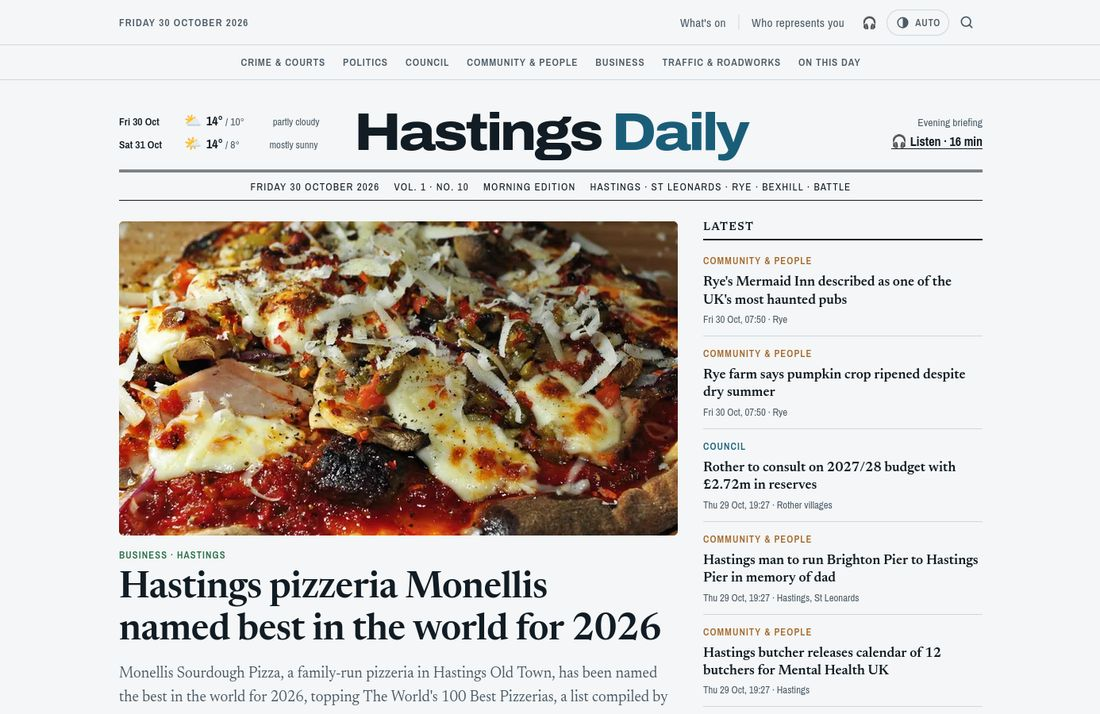
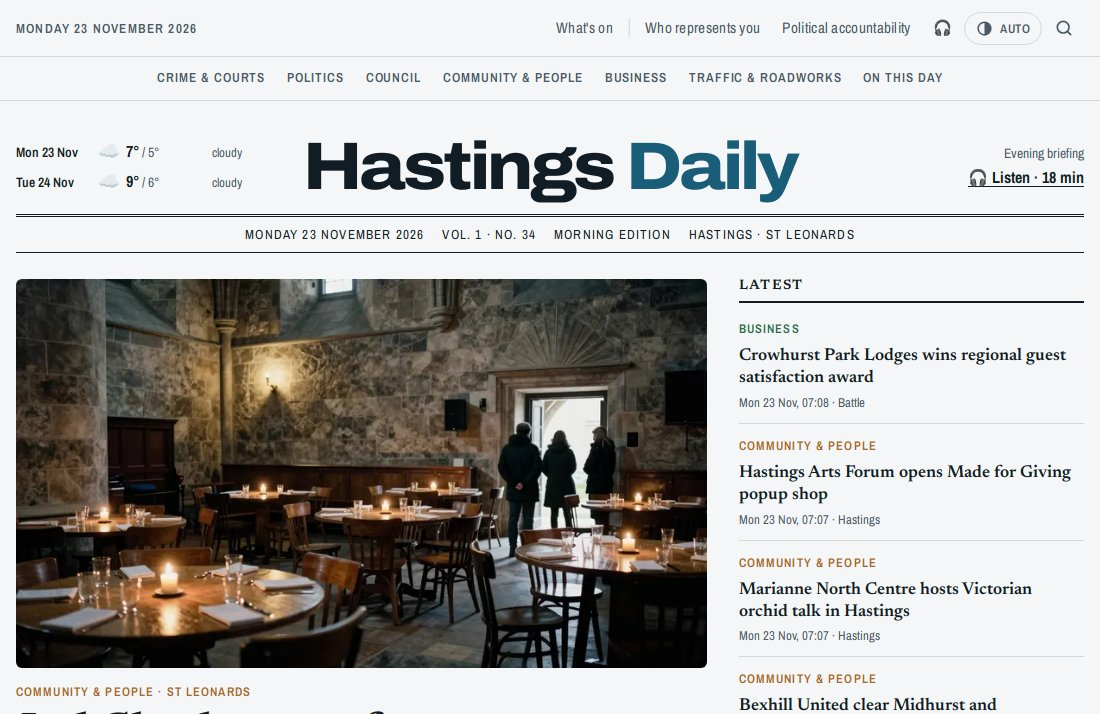
Home page: update

diff --git a/index.html b/index.html
@@ -27,6 +27,7 @@
   --ink: #1f3a5f;
   --idea: #a3446f;
   --news: #1b5e7e;
+  --rother: #2e6b45;
   --view: #7a5fc0;
   --sso: #c2571a;
   --td: #a8701a;
@@ -38,13 +39,13 @@
 @media (prefers-color-scheme: dark) {
   :root:not([data-theme="light"]) {
     --bg: #15171b; --surface: #1c1f24; --text: #e8e5df; --muted: #a0a6ae; --line: #30343b; --rule: #e8e5df;
-    --ink: #a9c1e2; --idea: #e290b6; --news: #79bde0; --view: #c3b1ff; --sso: #f0a070; --td: #f6c25b;
+    --ink: #a9c1e2; --idea: #e290b6; --news: #79bde0; --rother: #8cc7a0; --view: #c3b1ff; --sso: #f0a070; --td: #f6c25b;
     --s0: #23262c; --s1: #2b3a4f; --s2: #3e5f86; --s3: #6f93bf; --s4: #b5cbe6;
   }
 }
 :root[data-theme="dark"] {
   --bg: #15171b; --surface: #1c1f24; --text: #e8e5df; --muted: #a0a6ae; --line: #30343b; --rule: #e8e5df;
-  --ink: #a9c1e2; --idea: #e290b6; --news: #79bde0; --view: #c3b1ff; --sso: #f0a070; --td: #f6c25b;
+  --ink: #a9c1e2; --idea: #e290b6; --news: #79bde0; --rother: #8cc7a0; --view: #c3b1ff; --sso: #f0a070; --td: #f6c25b;
   --s0: #23262c; --s1: #2b3a4f; --s2: #3e5f86; --s3: #6f93bf; --s4: #b5cbe6;
 }
 *, *::before, *::after { box-sizing: border-box; }
@@ -225,7 +226,7 @@ footer p { margin: 0; }
     <li><span class="num">4</span><span class="label">GitHub</span><h3>Archive and host</h3>
       <p>Markdown, images and audio in public repositories. GitHub Pages builds the site.</p></li>
     <li><span class="num">5</span><span class="label">Published</span><h3>Read or listen</h3>
-      <p><a href="/daily-ideas/" target="_blank" rel="noopener">Daily Idea</a>, <a href="/hastings-news/" target="_blank" rel="noopener">Hastings Daily</a> and <a href="/long-view/" target="_blank" rel="noopener">The Long View</a>, <a href="/stay-safe-online/" target="_blank" rel="noopener">Stay Safe Online</a> and <a href="/threat-desk/" target="_blank" rel="noopener">Threat Desk</a>. All but Threat Desk come with a podcast.</p></li>
+      <p><a href="/daily-ideas/" target="_blank" rel="noopener">Daily Idea</a>, <a href="/hastings-news/" target="_blank" rel="noopener">Hastings Daily</a>, <a href="/rother-daily/" target="_blank" rel="noopener">Rother Daily</a> and <a href="/long-view/" target="_blank" rel="noopener">The Long View</a>, <a href="/stay-safe-online/" target="_blank" rel="noopener">Stay Safe Online</a> and <a href="/threat-desk/" target="_blank" rel="noopener">Threat Desk</a>. All but Threat Desk come with a podcast.</p></li>
   </ol>
 </header>
 
@@ -242,7 +243,7 @@ footer p { margin: 0; }
   <section id="sites" aria-labelledby="sites-title">
     <div class="section-head">
       <span class="label">The sites</span>
-      <h2 id="sites-title">Five sites, five very different jobs</h2>
+      <h2 id="sites-title">Six sites, six very different jobs</h2>
       <p>One serves up a single idea worth thinking about each morning. One is a local newspaper with three editions a day. One is a calm evening lesson in the ideas that hold societies together. And two keep watch on cyber security: one in plain English for everyone, one for the people who defend systems. All are free to read.</p>
     </div>
 
@@ -268,9 +269,9 @@ footer p { margin: 0; }
         <a class="shot" href="/hastings-news/" tabindex="-1" aria-hidden="true" target="_blank" rel="noopener"><img src="assets/hastings-news.jpg" width="1100" height="714" alt="" decoding="async"></a>
         <span class="label">Morning, midday and evening</span>
         <h3><a href="/hastings-news/" target="_blank" rel="noopener">Hastings Daily</a></h3>
-        <p class="summary">Local news for Hastings, St Leonards, Rye, Bexhill and Battle, written by a newsroom of AI correspondents.</p>
+        <p class="summary">Local news for Hastings and St Leonards, written by a newsroom of AI correspondents.</p>
         <ul class="features">
-          <li>Collected through the day from councils, the police, the MP, highways and the local papers.</li>
+          <li>Collected through the day from the borough and county councils, the police, the MP, highways and the local papers.</li>
           <li>Checked before it goes live. Every link must open, every figure must match the source, and a second model checks each claim.</li>
           <li>Compared by meaning so nothing is reported twice. Later news becomes a dated update.</li>
           <li>A picture for every story: a real photo of the subject where one exists, otherwise an AI illustration by the newsroom's picture editor, Iris, drawn at home and always labelled. Never real people, never a fake photo of the event.</li>
@@ -281,6 +282,25 @@ footer p { margin: 0; }
           <a class="textlink" href="/hastings-news/podcast/" target="_blank" rel="noopener">Podcast</a>
           <a class="textlink" href="/hastings-news/reporters/" target="_blank" rel="noopener">Meet the newsroom</a>
           <a class="textlink" href="/hastings-news/about/" target="_blank" rel="noopener">How it's checked</a>
+        </p>
+      </article>
+
+      <article class="site" style="--c: var(--rother)">
+        <a class="shot" href="/rother-daily/" tabindex="-1" aria-hidden="true" target="_blank" rel="noopener"><img src="assets/rother-daily.jpg" width="1100" height="714" alt="" decoding="async"></a>
+        <span class="label">Morning and evening</span>
+        <h3><a href="/rother-daily/" target="_blank" rel="noopener">Rother Daily</a></h3>
+        <p class="summary">Hastings Daily's sister paper: local news for Bexhill, Battle, Rye and the Rother villages, with its own newsroom of AI correspondents.</p>
+        <ul class="features">
+          <li>Rother District Council, the Bexhill and Battle town councils, the county council, both local MPs, the police, highways and the local papers.</li>
+          <li>The same checks as Hastings Daily: every link opened, every figure matched, every claim checked by a second model.</li>
+          <li>Written edition by edition in small steps, one story at a time, so a busy day never overwhelms the models.</li>
+          <li>An evening briefing podcast, plus weather, what's on, who represents you, the week's political accountability and "on this day".</li>
+        </ul>
+        <p class="links">
+          <a class="button" href="/rother-daily/" target="_blank" rel="noopener">Visit Rother Daily</a>
+          <a class="textlink" href="/rother-daily/podcast/" target="_blank" rel="noopener">Podcast</a>
+          <a class="textlink" href="/rother-daily/reporters/" target="_blank" rel="noopener">Meet the newsroom</a>
+          <a class="textlink" href="/rother-daily/about/" target="_blank" rel="noopener">How it's checked</a>
         </p>
       </article>
 
@@ -359,8 +379,8 @@ footer p { margin: 0; }
 
     <div class="charts">
       <div class="panel" style="--c: var(--news)">
-        <h3>Hastings Daily by section</h3>
-        <p class="sub">Stories published per section.</p>
+        <h3>Local news by section</h3>
+        <p class="sub">Hastings Daily and Rother Daily stories per section.</p>
         <div class="bars" id="bars-news"></div>
       </div>
       <div class="panel" style="--c: var(--idea)">
@@ -422,6 +442,7 @@ footer p { margin: 0; }
   const SITES = {
     idea: { name: "Daily Idea", index: "/daily-ideas/search.json", feed: "/daily-ideas/feed.xml", colour: "var(--idea)" },
     news: { name: "Hastings Daily", index: "/hastings-news/search.json", feed: "/hastings-news/podcast.xml", colour: "var(--news)" },
+    rother: { name: "Rother Daily", index: "/rother-daily/search.json", feed: "/rother-daily/podcast.xml", colour: "var(--rother)" },
     view: { name: "The Long View", index: "/long-view/search.json", feed: "/long-view/feed.xml", colour: "var(--view)" },
     sso: { name: "Stay Safe Online", index: "/stay-safe-online/search.json", feed: "/stay-safe-online/podcast.xml", colour: "var(--sso)" },
     td: { name: "Threat Desk", index: "/threat-desk/search.json", colour: "var(--td)" },
@@ -501,7 +522,7 @@ footer p { margin: 0; }
   function latest(items) {
     const top = [...items].sort((a, b) => (b.date > a.date ? 1 : b.date < a.date ? -1 : 0)).slice(0, 8);
     $("#latest").innerHTML = top.map((it) => {
-      const s = SITES[it.site], what = it.site === "news" ? [it.section, it.places].filter(Boolean).join(" · ")
+      const s = SITES[it.site], what = (it.site === "news" || it.site === "rother") ? [it.section, it.places].filter(Boolean).join(" · ")
         : (it.site === "sso" || it.site === "td") ? it.section : it.topic;
       return `<li style="--c:${s.colour}"><a href="${esc(it.url)}" target="_blank" rel="noopener">
         <span><span class="l-meta">${esc(s.name)}${what ? ` <span>· ${esc(what)}</span>` : ""}</span><span class="l-title">${esc(it.title)}</span></span>
@@ -511,13 +532,16 @@ footer p { margin: 0; }
 
   Promise.all([getJSON(SITES.idea.index), getJSON(SITES.news.index), countItems(SITES.idea.feed), countItems(SITES.news.feed),
                getJSON(SITES.view.index), countItems(SITES.view.feed),
-               getJSON(SITES.sso.index), countItems(SITES.sso.feed), getJSON(SITES.td.index)])
-    .then(([ideas, news, ideaEps, newsEps, views, viewEps, sso, ssoEps, td]) => {
-      ideas.forEach((x) => (x.site = "idea")); news.forEach((x) => (x.site = "news")); views.forEach((x) => (x.site = "view"));
+               getJSON(SITES.sso.index), countItems(SITES.sso.feed), getJSON(SITES.td.index),
+               getJSON(SITES.rother.index), countItems(SITES.rother.feed)])
+    .then(([ideas, hastings, ideaEps, newsEps, views, viewEps, sso, ssoEps, td, rother, rotherEps]) => {
+      ideas.forEach((x) => (x.site = "idea")); hastings.forEach((x) => (x.site = "news")); views.forEach((x) => (x.site = "view"));
+      rother.forEach((x) => (x.site = "rother"));
+      const news = [...hastings, ...rother];   // local news: both papers
       sso.forEach((x) => (x.site = "sso")); td.forEach((x) => (x.site = "td"));
       const places = new Set(news.flatMap((x) => String(x.places || "").split(",").map((p) => p.trim()).filter(Boolean)));
       const stats = { ideas: ideas.length, evenings: views.length, stories: news.length, cyber: sso.length + td.length,
-                      episodes: ideaEps + newsEps + viewEps + ssoEps, places: places.size };
+                      episodes: ideaEps + newsEps + rotherEps + viewEps + ssoEps, places: places.size };
       document.querySelectorAll("[data-stat]").forEach((el) => setNum(el, stats[el.dataset.stat] || 0));
       const tally = (arr, key) => arr.reduce((m, x) => ((m[x[key] || "Other"] = (m[x[key] || "Other"] || 0) + 1), m), {});
       bars($("#bars-news"), tally(news, "section"));
